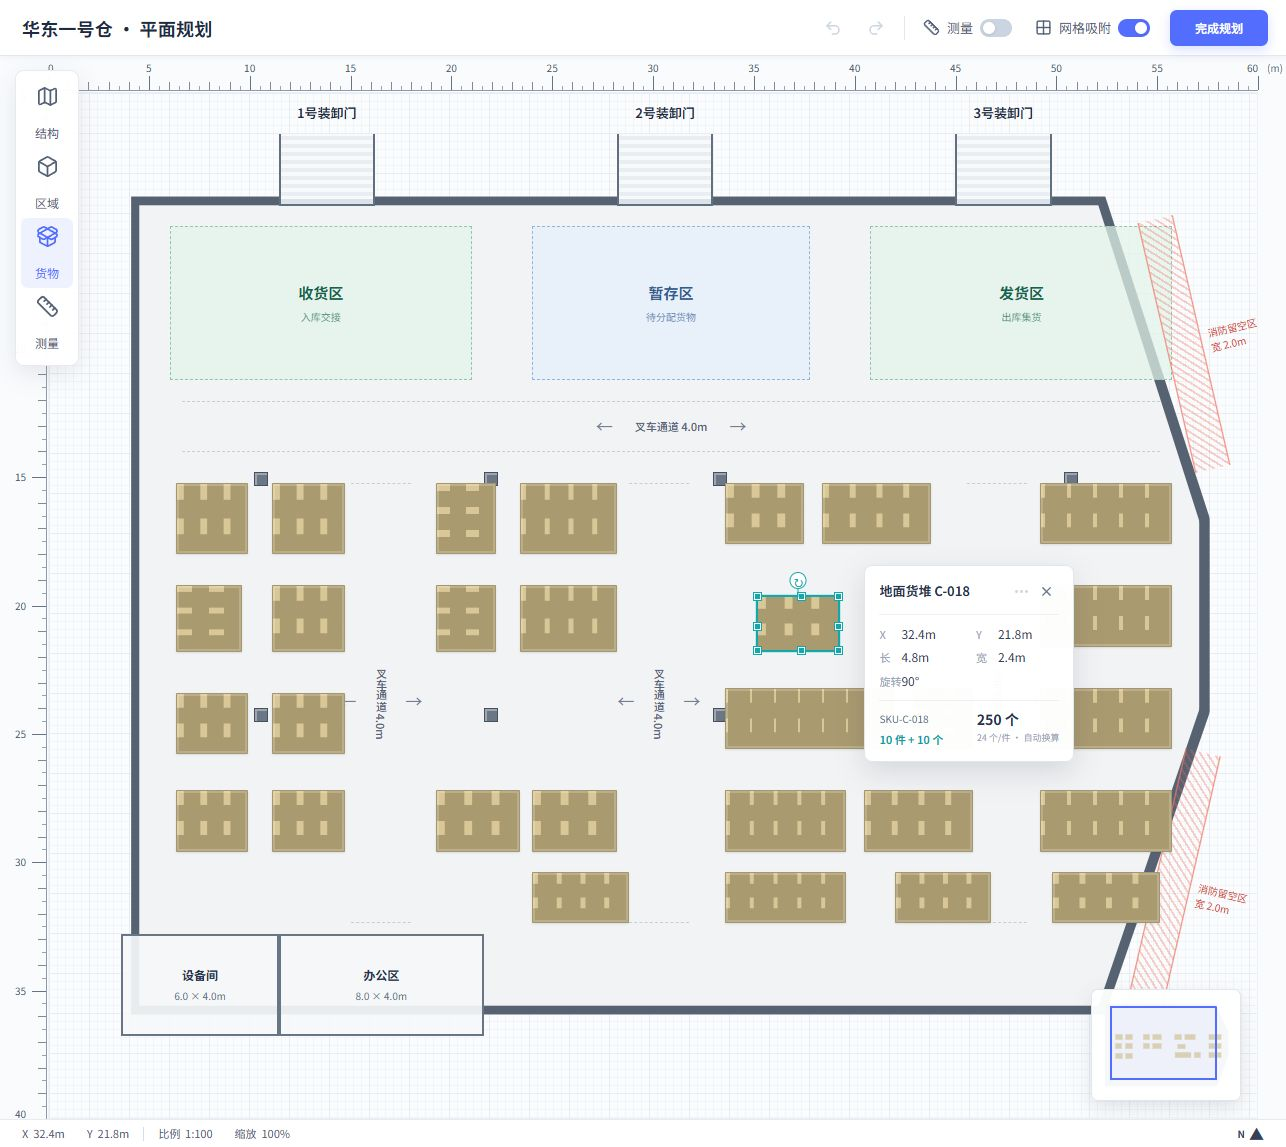
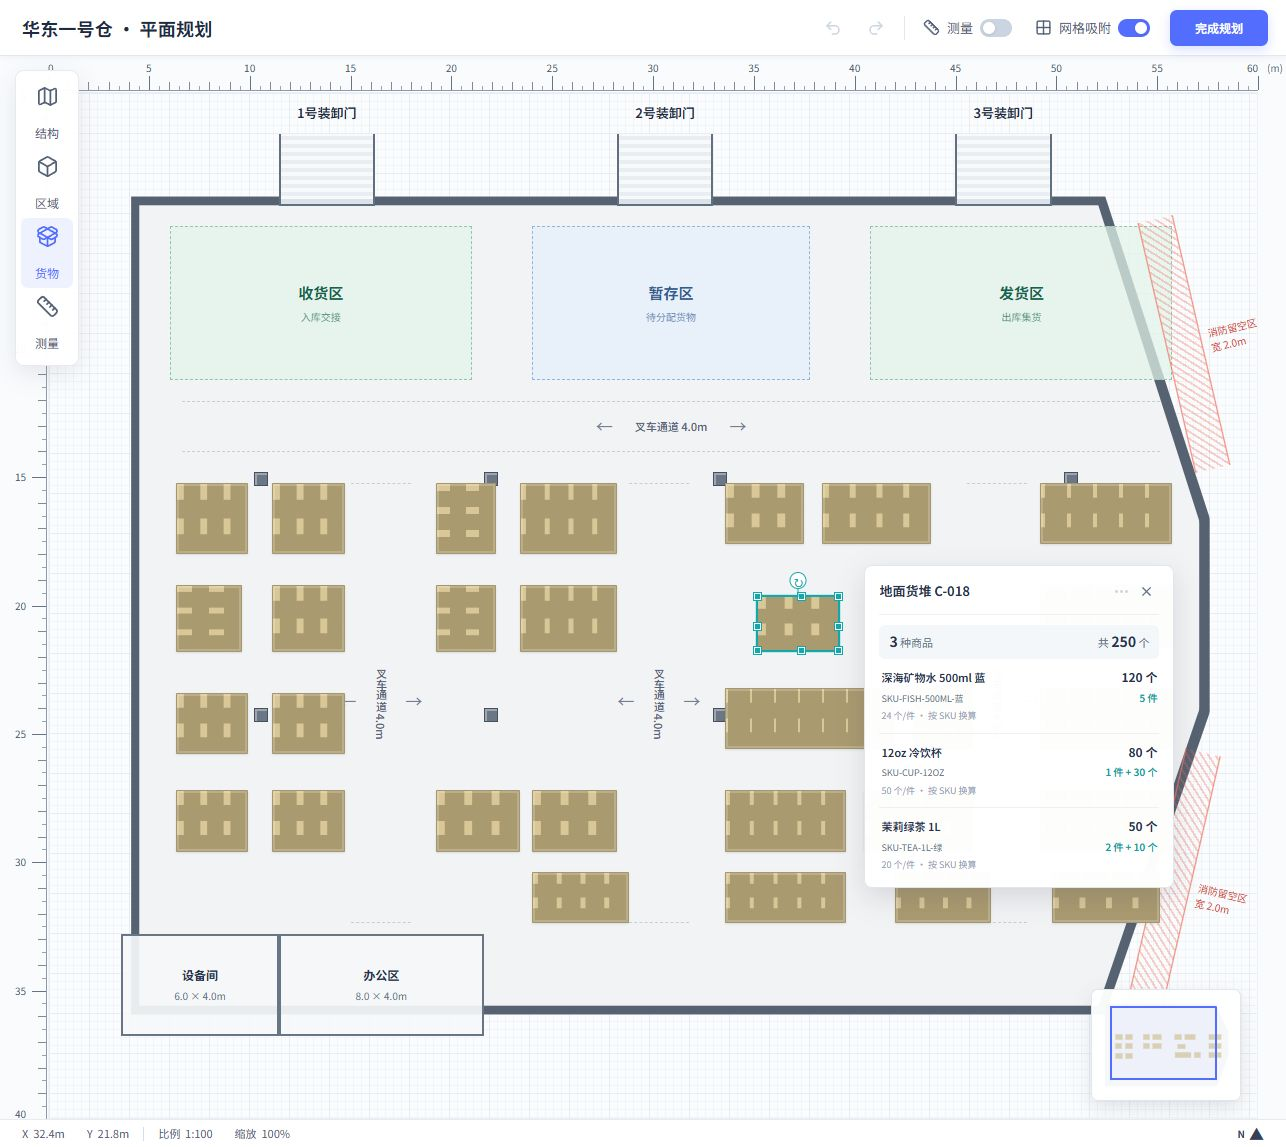
show products inside warehouse piles

Changed region(s): [[0.6532, 0.4882, 0.9331, 0.7934]]

diff --git a/frontend/src/features/inventory/warehouseCanvas/components/WarehousePlannerInspector.vue b/frontend/src/features/inventory/warehouseCanvas/components/WarehousePlannerInspector.vue
@@ -1,52 +1,62 @@
 <script setup lang="ts">
+import { computed } from 'vue'
 import { MoreHorizontal, X } from 'lucide-vue-next'
 import { formatCaseBreakdown } from '../warehouseCanvasModel'
 import type { PlannerPalletGroup } from '../warehousePlannerScene'
 
-defineProps<{ pallet: PlannerPalletGroup }>()
+const props = defineProps<{ pallet: PlannerPalletGroup }>()
 
 const emit = defineEmits<{ close: [] }>()
+
+const totalUnits = computed(() => props.pallet.contents.reduce((total, item) => total + item.units, 0))
 </script>
 
 <template>
-  <aside class="planner-inspector" :aria-label="`${pallet.name} 属性`">
+  <aside class="planner-inspector" :aria-label="`${pallet.name} 库存内容`">
     <header>
       <strong>{{ pallet.name }}</strong>
       <span class="header-actions">
         <button data-testid="planner-inspector-more" type="button" aria-label="更多货堆操作，UI 预览暂未开放" title="UI 预览暂未开放" disabled><MoreHorizontal :size="17" /></button>
-        <button data-testid="planner-inspector-close" type="button" aria-label="关闭货堆属性" @click="emit('close')"><X :size="15" /></button>
+        <button data-testid="planner-inspector-close" type="button" aria-label="关闭货堆库存内容" @click="emit('close')"><X :size="15" /></button>
       </span>
     </header>
-    <dl class="geometry-grid">
-      <div><dt>X</dt><dd>{{ pallet.xMeters }}m</dd></div>
-      <div><dt>Y</dt><dd>{{ pallet.yMeters }}m</dd></div>
-      <div><dt>长</dt><dd>{{ pallet.lengthMeters }}m</dd></div>
-      <div><dt>宽</dt><dd>{{ pallet.widthMeters }}m</dd></div>
-      <div><dt>旋转</dt><dd>{{ pallet.rotation }}°</dd></div>
-    </dl>
-    <div class="inventory-readout">
-      <span>{{ pallet.skuCode }}</span>
-      <strong data-testid="planner-inspector-units">{{ pallet.units }} 个</strong>
-      <small data-testid="planner-inspector-cases">{{ formatCaseBreakdown(pallet.units, pallet.unitsPerCase) }}</small>
-      <em>{{ pallet.unitsPerCase }} 个/件 · 自动换算</em>
+    <div data-testid="planner-inspector-summary" class="inventory-summary">
+      <span><strong>{{ pallet.contents.length }}</strong> 种商品</span>
+      <span>共 <strong>{{ totalUnits }}</strong> 个</span>
     </div>
+    <ul class="product-list" aria-label="货堆商品清单">
+      <li v-for="item in pallet.contents" :key="item.skuCode" data-testid="planner-inspector-product">
+        <div class="product-heading">
+          <strong>{{ item.productName }}</strong>
+          <b>{{ item.units }} 个</b>
+        </div>
+        <div class="product-meta">
+          <span>{{ item.skuCode }}</span>
+          <small>{{ formatCaseBreakdown(item.units, item.unitsPerCase) }}</small>
+        </div>
+        <em>{{ item.unitsPerCase }} 个/件 · 按 SKU 换算</em>
+      </li>
+    </ul>
   </aside>
 </template>
 
 <style scoped>
-.planner-inspector { width: 210px; border: 1px solid #e1e6ec; border-radius: 8px; padding: 13px 14px 14px; background: rgba(255,255,255,.98); color: #25314d; box-shadow: 0 10px 28px rgba(37,49,77,.15); }
+.planner-inspector { width: 310px; border: 1px solid #e1e6ec; border-radius: 8px; padding: 13px 14px 14px; background: rgba(255,255,255,.98); color: #25314d; box-shadow: 0 10px 28px rgba(37,49,77,.15); }
 header { display: flex; align-items: center; justify-content: space-between; gap: 10px; padding-bottom: 10px; border-bottom: 1px solid #edf1f5; }
 header strong { min-width: 0; overflow: hidden; font-size: 13px; font-weight: 650; text-overflow: ellipsis; white-space: nowrap; }
 .header-actions { display: flex; align-items: center; }
 button { display: grid; place-items: center; width: 25px; height: 25px; border: 0; border-radius: 5px; padding: 0; background: transparent; color: #64748b; cursor: pointer; }
 button:hover { background: #f1f5f9; color: #25314d; } button:focus-visible { outline: 2px solid #536dff; outline-offset: 1px; }
 button:disabled { color: #cbd5e1; cursor: not-allowed; }
-.geometry-grid { display: grid; grid-template-columns: 1fr 1fr; gap: 7px 13px; margin: 11px 0 0; }
-.geometry-grid div { display: grid; grid-template-columns: 22px 1fr; align-items: baseline; }
-dt { color: #94a3b8; font-size: 11px; } dd { margin: 0; font: 12px/1.4 Inter,sans-serif; color: #354159; }
-.inventory-readout { display: grid; grid-template-columns: 1fr auto; gap: 3px 10px; margin-top: 10px; padding-top: 10px; border-top: 1px solid #edf1f5; }
-.inventory-readout > span { color: #64748b; font: 10px/1.5 Inter,sans-serif; }
-.inventory-readout > strong { color: #25314d; font: 650 14px/1.2 Inter,sans-serif; }
-.inventory-readout > small { color: #08a0a3; font-size: 11px; font-weight: 600; }
-.inventory-readout > em { color: #94a3b8; font-size: 9px; font-style: normal; text-align: right; }
+.inventory-summary { display: flex; align-items: center; justify-content: space-between; margin: 10px 0 0; padding: 9px 10px; border-radius: 6px; background: #f4f7fa; color: #64748b; font-size: 11px; }
+.inventory-summary strong { color: #25314d; font: 650 14px/1 Inter,sans-serif; }
+.product-list { display: grid; max-height: 228px; margin: 0; padding: 0; overflow-y: auto; list-style: none; }
+.product-list li { display: grid; gap: 4px; padding: 10px 2px; border-bottom: 1px solid #edf1f5; }
+.product-list li:last-child { padding-bottom: 1px; border-bottom: 0; }
+.product-heading, .product-meta { display: flex; align-items: baseline; justify-content: space-between; gap: 12px; }
+.product-heading strong { min-width: 0; overflow: hidden; color: #25314d; font-size: 11px; font-weight: 600; text-overflow: ellipsis; white-space: nowrap; }
+.product-heading b { flex: 0 0 auto; color: #25314d; font: 650 12px/1.3 Inter,sans-serif; }
+.product-meta span { min-width: 0; overflow: hidden; color: #64748b; font: 9px/1.4 Inter,sans-serif; text-overflow: ellipsis; white-space: nowrap; }
+.product-meta small { flex: 0 0 auto; color: #08a0a3; font-size: 10px; font-weight: 600; }
+.product-list em { color: #94a3b8; font-size: 9px; font-style: normal; }
 </style>

diff --git a/frontend/src/features/inventory/warehouseCanvas/warehousePlannerScene.ts b/frontend/src/features/inventory/warehouseCanvas/warehousePlannerScene.ts
@@ -11,14 +11,17 @@ export type PlannerAisle = PlannerRect & { id: string; label: string; direction:
 export type PlannerRoom = PlannerRect & { id: string; label: string; detail: string }
 export type PlannerFireLane = PlannerRect & { id: string; rotation: number }
 export type PlannerColumn = { id: string; left: number; top: number }
+export type PlannerPalletContent = {
+  productName: string
+  skuCode: string
+  units: number
+  unitsPerCase: number
+}
 
 export type PlannerPalletGroup = PlannerRect & {
   id: string
   code: string
   name: string
-  skuCode: string
-  units: number
-  unitsPerCase: number
   columns: number
   rows: number
   xMeters: number
@@ -26,6 +29,7 @@ export type PlannerPalletGroup = PlannerRect & {
   lengthMeters: number
   widthMeters: number
   rotation: number
+  contents: PlannerPalletContent[]
 }
 
 const pallet = (
@@ -41,9 +45,6 @@ const pallet = (
   id,
   code: id.replace('pallet-', '').toUpperCase(),
   name: `地面货堆 ${id.replace('pallet-', '').toUpperCase()}`,
-  skuCode: `SKU-${id.replace('pallet-', '').toUpperCase()}`,
-  units: 144,
-  unitsPerCase: 24,
   left,
   top,
   width,
@@ -55,6 +56,12 @@ const pallet = (
   lengthMeters: Number((width * .54).toFixed(1)),
   widthMeters: Number((height * .42).toFixed(1)),
   rotation: 0,
+  contents: [{
+    productName: `仓内商品 ${id.replace('pallet-', '').toUpperCase()}`,
+    skuCode: `SKU-${id.replace('pallet-', '').toUpperCase()}`,
+    units: 144,
+    unitsPerCase: 24,
+  }],
   ...overrides,
 })
 
@@ -102,14 +109,16 @@ export const warehousePlannerScene = {
     pallet('pallet-c018', 58.5, 49, 7, 5.5, 3, 2, {
       code: 'C-018',
       name: '地面货堆 C-018',
-      skuCode: 'SKU-C-018',
-      units: 250,
-      unitsPerCase: 24,
       xMeters: 32.4,
       yMeters: 21.8,
       lengthMeters: 4.8,
       widthMeters: 2.4,
       rotation: 90,
+      contents: [
+        { productName: '深海矿物水 500ml 蓝', skuCode: 'SKU-FISH-500ML-蓝', units: 120, unitsPerCase: 24 },
+        { productName: '12oz 冷饮杯', skuCode: 'SKU-CUP-12OZ', units: 80, unitsPerCase: 50 },
+        { productName: '茉莉绿茶 1L', skuCode: 'SKU-TEA-1L-绿', units: 50, unitsPerCase: 20 },
+      ],
     }),
     pallet('pallet-b04', 56, 58, 14, 6, 7, 2),
     pallet('pallet-b05', 71.5, 58, 5, 6, 2, 3),

diff --git a/frontend/src/features/inventory/warehouseCanvas/components/WarehousePlannerInspector.test.ts b/frontend/src/features/inventory/warehouseCanvas/components/WarehousePlannerInspector.test.ts
@@ -4,15 +4,27 @@ import { warehousePlannerScene } from '../warehousePlannerScene'
 import WarehousePlannerInspector from './WarehousePlannerInspector.vue'
 
 describe('WarehousePlannerInspector', () => {
-  it('shows authoritative units and derived cases', () => {
+  it('shows every product in the pile instead of geometry details', () => {
     const pallet = warehousePlannerScene.palletGroups.find((item) => item.id === 'pallet-c018')!
     const wrapper = mount(WarehousePlannerInspector, { props: { pallet } })
 
     expect(wrapper.text()).toContain('地面货堆 C-018')
-    expect(wrapper.get('[data-testid="planner-inspector-units"]').text()).toBe('250 个')
-    expect(wrapper.get('[data-testid="planner-inspector-cases"]').text()).toBe('10 件 + 10 个')
-    expect(wrapper.text()).toContain('32.4m')
-    expect(wrapper.text()).toContain('90°')
+    expect(wrapper.get('[data-testid="planner-inspector-summary"]').text()).toContain('3 种商品')
+    expect(wrapper.get('[data-testid="planner-inspector-summary"]').text()).toContain('共 250 个')
+    expect(wrapper.findAll('[data-testid="planner-inspector-product"]')).toHaveLength(3)
+    expect(wrapper.text()).toContain('深海矿物水 500ml 蓝')
+    expect(wrapper.text()).toContain('SKU-FISH-500ML-蓝')
+    expect(wrapper.text()).toContain('120 个')
+    expect(wrapper.text()).toContain('5 件')
+    expect(wrapper.text()).toContain('12oz 冷饮杯')
+    expect(wrapper.text()).toContain('80 个')
+    expect(wrapper.text()).toContain('1 件 + 30 个')
+    expect(wrapper.text()).toContain('茉莉绿茶 1L')
+    expect(wrapper.text()).toContain('50 个')
+    expect(wrapper.text()).toContain('2 件 + 10 个')
+    expect(wrapper.find('[data-testid="planner-inspector-geometry"]').exists()).toBe(false)
+    expect(wrapper.text()).not.toContain('32.4m')
+    expect(wrapper.text()).not.toContain('90°')
     expect(wrapper.get('[data-testid="planner-inspector-more"]').attributes('disabled')).toBeDefined()
   })
 

diff --git a/frontend/src/features/inventory/warehouseCanvas/components/WarehouseBlueprintScene.vue b/frontend/src/features/inventory/warehouseCanvas/components/WarehouseBlueprintScene.vue
@@ -54,6 +54,10 @@ function palletStyle(pallet: PlannerPalletGroup) {
   }
 }
 
+function palletTotalUnits(pallet: PlannerPalletGroup) {
+  return pallet.contents.reduce((total, item) => total + item.units, 0)
+}
+
 function inspectorStyle(pallet: PlannerPalletGroup) {
   const left = Math.min(pallet.left + pallet.width + 2, 72)
   const top = Math.max(14, pallet.top - 3)
@@ -178,10 +182,10 @@ function inspectorStyle(pallet: PlannerPalletGroup) {
         :aria-pressed="selectedPalletId === pallet.id"
         :style="palletStyle(pallet)"
         type="button"
-        :aria-label="`${pallet.name}，地面箱子堆砌，${pallet.units} 个`"
+        :aria-label="`${pallet.name}，地面箱子堆砌，${pallet.contents.length} 种商品，共 ${palletTotalUnits(pallet)} 个`"
         @click="emit('select-pallet', pallet.id)"
       >
-        <span class="sr-only">{{ pallet.name }} · {{ pallet.skuCode }} · {{ pallet.units }} 个</span>
+        <span class="sr-only">{{ pallet.name }} · {{ pallet.contents.length }} 种商品 · 共 {{ palletTotalUnits(pallet) }} 个</span>
         <template v-if="selectedPalletId === pallet.id">
           <i v-for="handle in 8" :key="handle" class="selection-handle" :class="`handle-${handle}`" aria-hidden="true" />
           <i class="rotation-handle" aria-hidden="true">↻</i>

diff --git a/frontend/src/features/inventory/warehouseCanvas/components/WarehouseBlueprintScene.test.ts b/frontend/src/features/inventory/warehouseCanvas/components/WarehouseBlueprintScene.test.ts
@@ -20,6 +20,7 @@ describe('WarehouseBlueprintScene', () => {
     expect(wrapper.text()).toContain('消防留空区')
     expect(wrapper.get('[data-testid="planner-pallet-pallet-c018"]').attributes('data-selected')).toBe('true')
     expect(wrapper.get('[data-testid="planner-pallet-pallet-c018"]').attributes('aria-pressed')).toBe('true')
+    expect(wrapper.get('[data-testid="planner-pallet-pallet-c018"]').attributes('aria-label')).toContain('3 种商品，共 250 个')
     expect(wrapper.get('[data-testid="planner-pallet-pallet-a01"]').attributes('aria-pressed')).toBe('false')
     expect(wrapper.find('[data-testid="planner-minimap"]').exists()).toBe(true)
     expect(wrapper.get('[data-testid="planner-coordinate-status"]').text()).toContain('比例  1:100')
